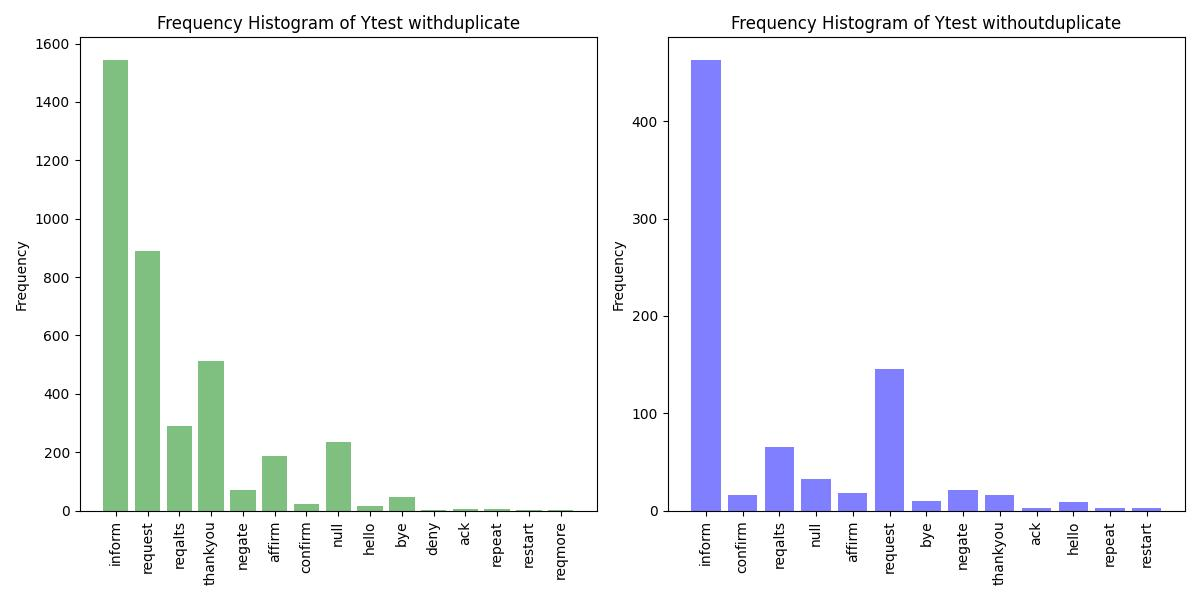
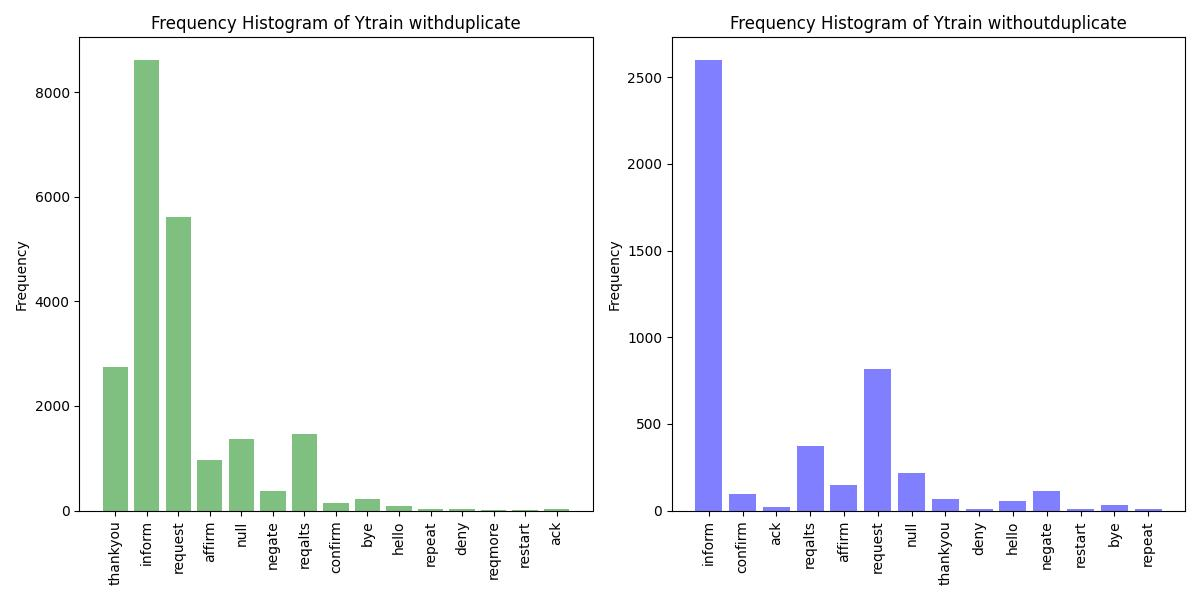
dataanalyisis using train

diff --git a/data_analysis.py b/data_analysis.py
@@ -13,13 +13,13 @@ filename = "data/dialog_acts.dat"
 datacreator_with_duplicates = Datacreator(False)
 
 datacreator_with_duplicates.openfile(filename)
-datacreator_with_duplicates.assignClass()
+datacreator_with_duplicates.assign_class()
 datacreator_with_duplicates.create_dataset()
 
 datacreator_without_duplicates = Datacreator(True)
 
 datacreator_without_duplicates.openfile(filename)
-datacreator_without_duplicates.assignClass()
+datacreator_without_duplicates.assign_class()
 datacreator_without_duplicates.create_dataset()
 
 data = {
@@ -36,8 +36,8 @@ data = {
 # 1 - Distribution of dialogs acts
 
 # Get word count
-word_counts_with_duplicates = Counter(data["ytestwithduplicate"])
-word_counts_without_duplicates = Counter(data["ytestwithoutduplicate"])
+word_counts_with_duplicates = Counter(data["ytrainwithduplicate"])
+word_counts_without_duplicates = Counter(data["ytrainwithoutduplicate"])
 
 # Convert word count into separate lists of words and frequencies
 words_with_duplicates, frequencies_with_duplicates = zip(
@@ -54,14 +54,14 @@ plt.bar(
     frequencies_with_duplicates,
     alpha=0.5,
     color="g",
-    label="Ytest withduplicate",
+    label="Ytrain withduplicate",
 )
 plt.bar(
     words_without_duplicates,
     frequencies_without_duplicates,
     alpha=0.5,
     color="b",
-    label="Ytest withoutduplicate",
+    label="Ytrain withoutduplicate",
 )
 plt.gca().set(title="Frequency Histogram of DialogAct", ylabel="Frequency")
 plt.legend()
@@ -72,12 +72,12 @@ plt.savefig("output/images/distribution_dialog_act_comparison.jpg")
 # Create the figure and axes for subplots
 fig, (ax1, ax2) = plt.subplots(1, 2, figsize=(12, 6))
 
-# Plot the histogram for Distribution of DialogActs for Ytestwithduplicate and Ytestwithoutduplicate
+# Plot the histogram for Distribution of DialogActs for Ytrainwithduplicate and Ytrainwithoutduplicate
 ax1.bar(words_with_duplicates, frequencies_with_duplicates, alpha=0.5, color="g")
-ax1.set(title="Frequency Histogram of Ytest withduplicate", ylabel="Frequency")
+ax1.set(title="Frequency Histogram of Ytrain withduplicate", ylabel="Frequency")
 ax1.tick_params(axis="x", rotation=90)
 ax2.bar(words_without_duplicates, frequencies_without_duplicates, alpha=0.5, color="b")
-ax2.set(title="Frequency Histogram of Ytest withoutduplicate", ylabel="Frequency")
+ax2.set(title="Frequency Histogram of Ytrain withoutduplicate", ylabel="Frequency")
 ax2.tick_params(axis="x", rotation=90)
 plt.tight_layout()
 plt.savefig("output/images/distribution_dialogs_acts_separated.jpg")
@@ -96,32 +96,32 @@ plt.savefig("output/images/pie_chart_with_duplicates.jpg")
 
 # 2 - Length of the utterances
 
-# Calculate the average length of xtest for each dialogact in ytestwithduplicate
+# Calculate the average length of xtrain for each dialogact in ytrainwithduplicate
 
-dialogsacts = set(data["ytestwithduplicate"])
+dialogsacts = set(data["ytrainwithduplicate"])
 dialogs_lengths = {}
 
 # We get the lengths for each dialog act, then we calculate the average and add it to dialogs_lengths
 for dialogact in dialogsacts:
     dialogsactsindexs = [
-        i for i, y in enumerate(data["ytestwithduplicate"]) if y == dialogact
+        i for i, y in enumerate(data["ytrainwithduplicate"]) if y == dialogact
     ]
-    dialogs_xtest_lengths = [
-        len(data["xtestwithduplicate"][i]) for i in dialogsactsindexs
+    dialogs_xtrain_lengths = [
+        len(data["xtrainwithduplicate"][i]) for i in dialogsactsindexs
     ]
-    average_length = np.mean(dialogs_xtest_lengths)
+    average_length = np.mean(dialogs_xtrain_lengths)
     dialogs_lengths[dialogact] = average_length
 
 # Also, we figure out the average length of every utterance (for every dialog act class)
-xtest_lengthforall = [len(sentence) for sentence in data["xtestwithduplicate"]]
-dialogs_lengths["average"] = np.mean(xtest_lengthforall)
+xtrain_lengthforall = [len(sentence) for sentence in data["xtrainwithduplicate"]]
+dialogs_lengths["average"] = np.mean(xtrain_lengthforall)
 
 # Create the plot
 plt.figure(figsize=(10, 6))
 plt.bar(dialogs_lengths.keys(), dialogs_lengths.values())
 plt.xlabel("Dialogs Acts")
 plt.ylabel("Average Length Utterances")
-plt.title("Average Length of X Test WithDuplicates for DialogAct")
+plt.title("Average Length of X train WithDuplicates for DialogAct")
 plt.xticks(rotation=45)
 plt.tight_layout()
 plt.savefig("output/images/length_utterances.jpg")
@@ -129,7 +129,7 @@ plt.savefig("output/images/length_utterances.jpg")
 # 3 - Most used words
 
 # We attach every utterance in text
-text = " ".join(data["xtestwithduplicate"])
+text = " ".join(data["xtrainwithduplicate"])
 
 # Create object WorldCloud
 wordcloud = WordCloud(width=800, height=400, background_color="white").generate(text)
@@ -144,7 +144,7 @@ plt.figure(figsize=(12, 6))
 plt.subplot(1, 2, 1)
 plt.imshow(wordcloud, interpolation="bilinear")
 plt.axis("off")
-plt.title("Word Cloud most used words in utterances (xtestwithduplicates)")
+plt.title("Word Cloud most used words in utterances (xtrainwithduplicates)")
 plt.subplot(1, 2, 2)
 words, frequencies = zip(*top_10_words)
 plt.barh(words, frequencies, color="skyblue")
@@ -157,7 +157,7 @@ plt.savefig("output/images/most_words_used.jpg")
 # 5 - Words per Dialog Act
 
 
-dialogsacts = set(data["ytestwithduplicate"])
+dialogsacts = set(data["ytrainwithduplicate"])
 
 top_words_by_dialog_act = {}
 
@@ -170,8 +170,8 @@ def get_top_words(text, n):
 
 for dialogact in dialogsacts:
     filtered_phrases = [
-        data["xtestwithduplicate"][i]
-        for i, y in enumerate(data["ytestwithduplicate"])
+        data["xtrainwithduplicate"][i]
+        for i, y in enumerate(data["ytrainwithduplicate"])
         if y == dialogact
     ]
     text_for_dialogact = " ".join(filtered_phrases)
